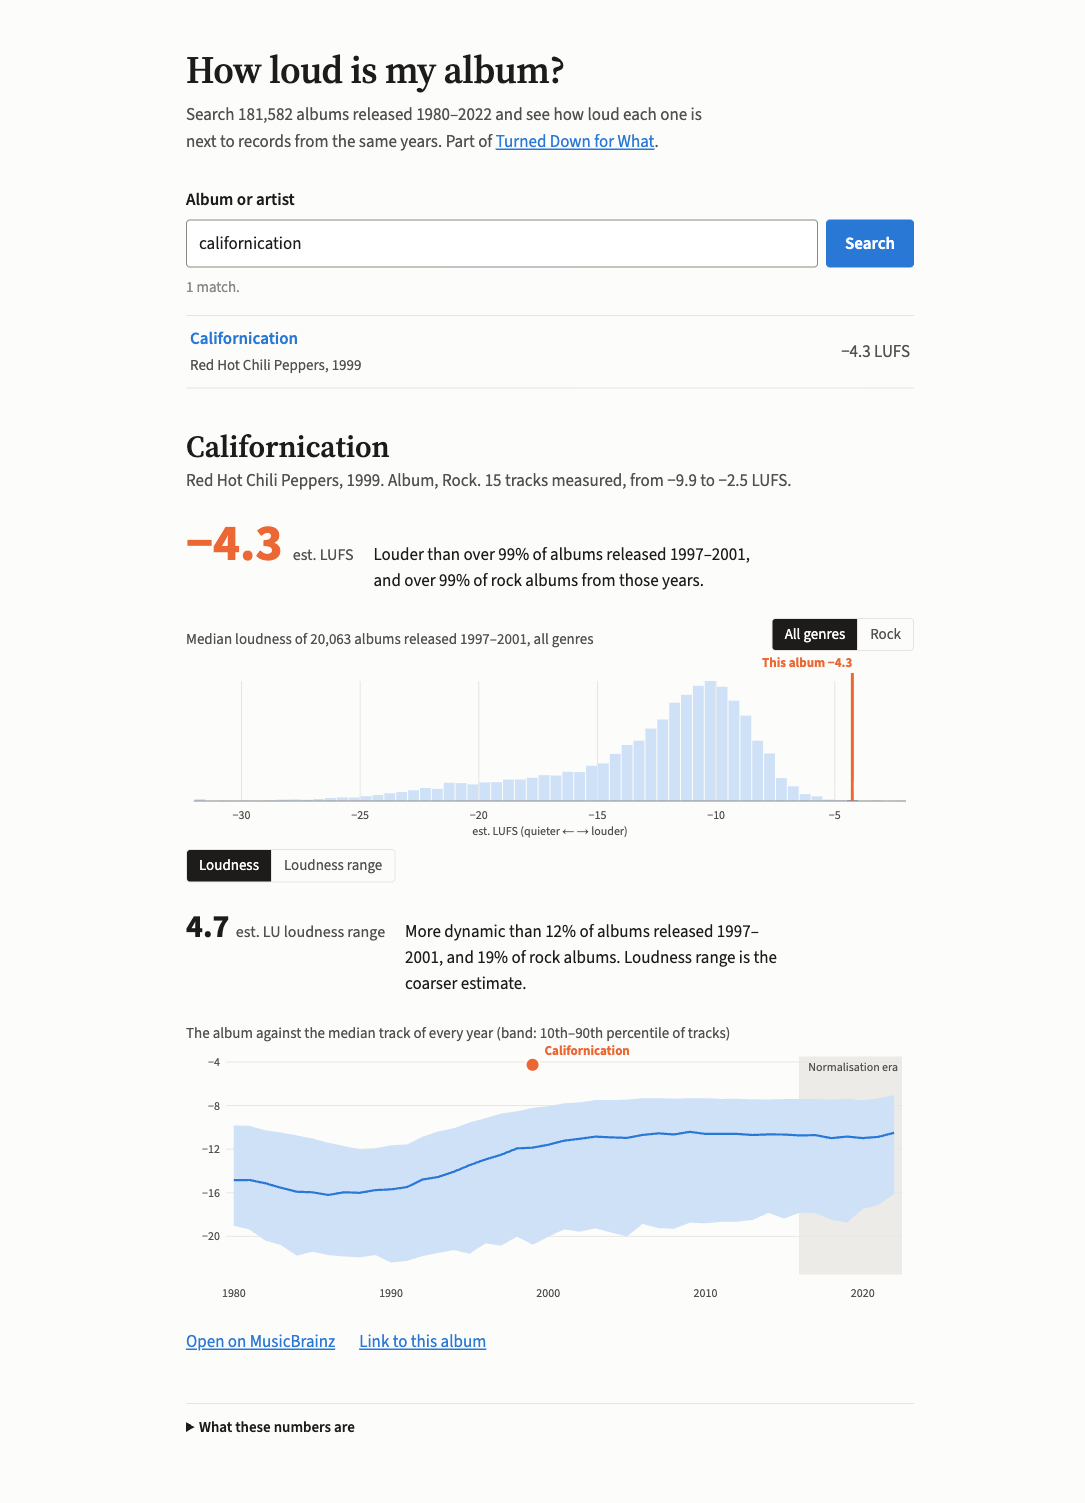
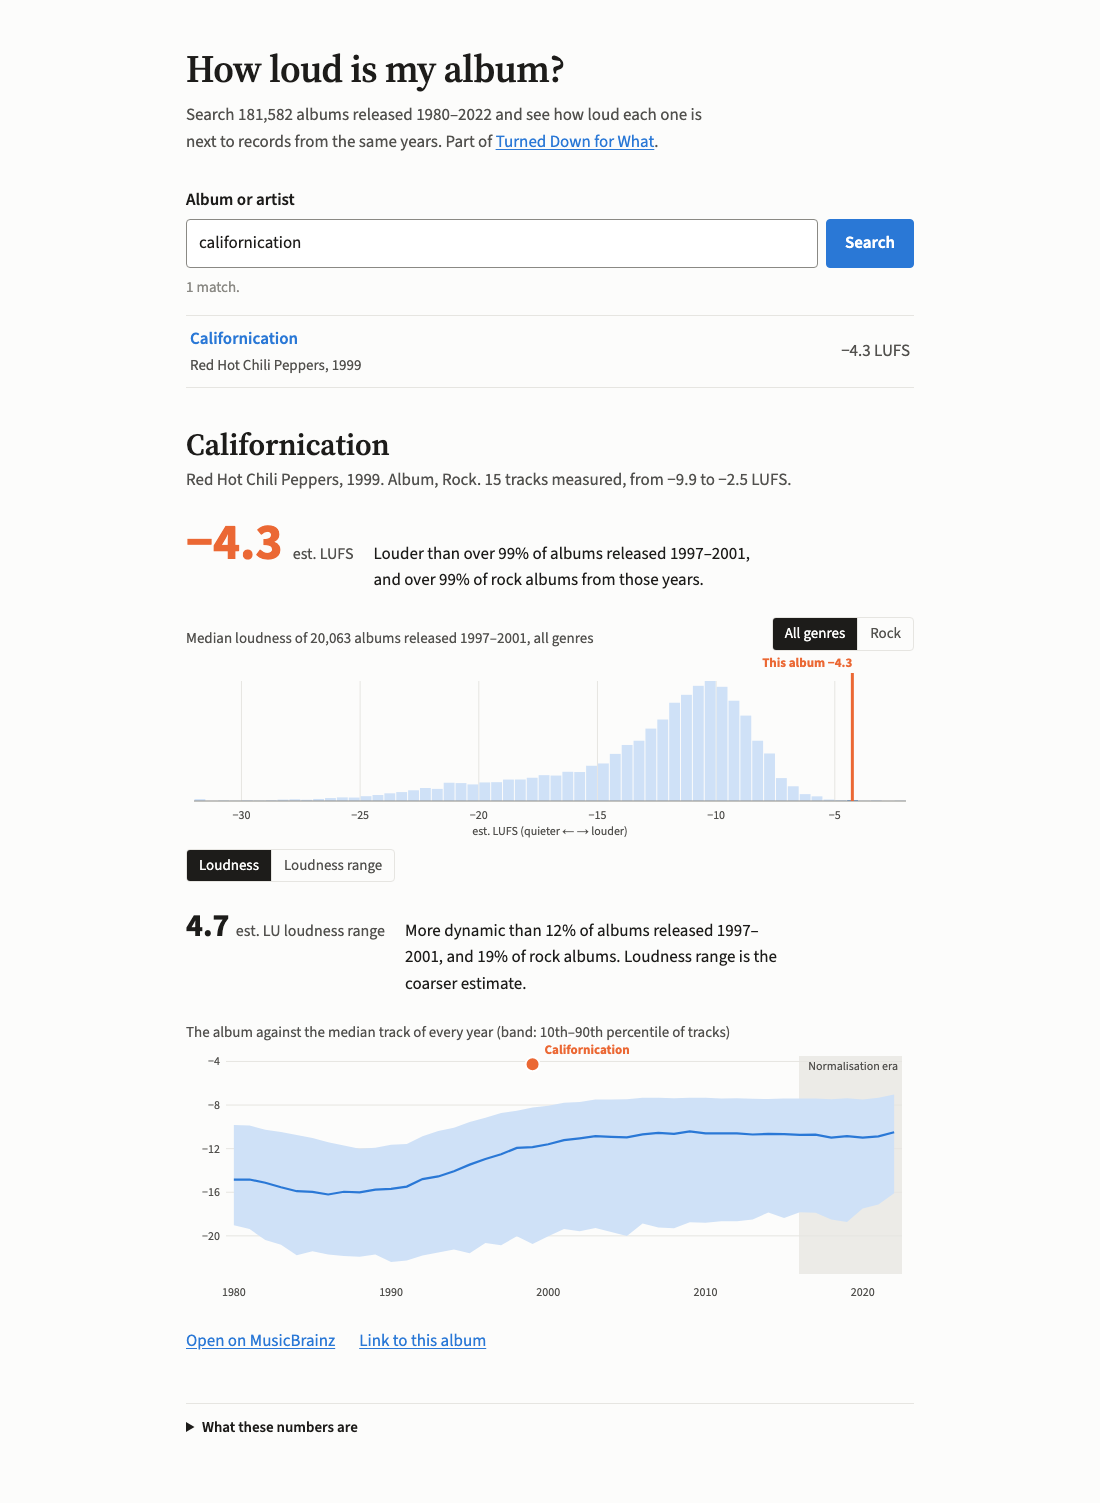
P22: list search results in release-year order (up to 200 matches)

diff --git a/app/app.js b/app/app.js
@@ -5,6 +5,7 @@ const $ = (id) => document.getElementById(id);
 const state = { conn: null, dist: null, album: null, scope: "all", metric: "lufs" };
 const SVGNS = "http://www.w3.org/2000/svg";
 const Y0 = 1980, Y1 = 2022;
+const MAX_RESULTS = 200;
 
 const minus = (s) => String(s).replace(/-/g, "−");
 const fmt = (v, d = 1) => minus(Number(v).toFixed(d));
@@ -73,11 +74,13 @@ async function search(q) {
   if (!words.length) return [];
   const where = words.map(() => "(title_key || ' ' || artist_key) like ?").join(" and ");
   const full = norm(q);
-  return rows(
-    `select ${COLS} from albums where ${where}
-     order by (title_key = ?) desc, (artist_key = ?) desc, n_sub desc limit 25`,
+  // keep the MAX_RESULTS most relevant matches, then list them in release-year order
+  const list = await rows(
+    `select ${COLS}, count(*) over () as n_total from albums where ${where}
+     order by (title_key = ?) desc, (artist_key = ?) desc, n_sub desc limit ${MAX_RESULTS}`,
     [...words.map((w) => `%${w}%`), full, full],
   );
+  return list.sort((a, b) => a.year - b.year || a.title.localeCompare(b.title));
 }
 
 // ---------- rendering ----------
@@ -97,9 +100,10 @@ function renderResults(list, q) {
     $("status").textContent = `No albums match "${q}". Try fewer words, or the artist's name on its own.`;
     return;
   }
-  $("status").textContent = list.length === 25
-    ? "Showing the 25 most-submitted matches. Add a word to narrow it down."
-    : `${list.length} ${list.length === 1 ? "match" : "matches"}.`;
+  const total = list[0].n_total;
+  $("status").textContent = total > list.length
+    ? `${total.toLocaleString("en-GB")} matches. Showing the ${list.length} most-submitted, oldest first. Add a word to narrow it down.`
+    : list.length === 1 ? "1 match." : `${list.length} matches, oldest first.`;
   for (const a of list) {
     const li = document.createElement("li");
     const b = document.createElement("button");

diff --git a/docs/app/app.js b/docs/app/app.js
@@ -5,6 +5,7 @@ const $ = (id) => document.getElementById(id);
 const state = { conn: null, dist: null, album: null, scope: "all", metric: "lufs" };
 const SVGNS = "http://www.w3.org/2000/svg";
 const Y0 = 1980, Y1 = 2022;
+const MAX_RESULTS = 200;
 
 const minus = (s) => String(s).replace(/-/g, "−");
 const fmt = (v, d = 1) => minus(Number(v).toFixed(d));
@@ -73,11 +74,13 @@ async function search(q) {
   if (!words.length) return [];
   const where = words.map(() => "(title_key || ' ' || artist_key) like ?").join(" and ");
   const full = norm(q);
-  return rows(
-    `select ${COLS} from albums where ${where}
-     order by (title_key = ?) desc, (artist_key = ?) desc, n_sub desc limit 25`,
+  // keep the MAX_RESULTS most relevant matches, then list them in release-year order
+  const list = await rows(
+    `select ${COLS}, count(*) over () as n_total from albums where ${where}
+     order by (title_key = ?) desc, (artist_key = ?) desc, n_sub desc limit ${MAX_RESULTS}`,
     [...words.map((w) => `%${w}%`), full, full],
   );
+  return list.sort((a, b) => a.year - b.year || a.title.localeCompare(b.title));
 }
 
 // ---------- rendering ----------
@@ -97,9 +100,10 @@ function renderResults(list, q) {
     $("status").textContent = `No albums match "${q}". Try fewer words, or the artist's name on its own.`;
     return;
   }
-  $("status").textContent = list.length === 25
-    ? "Showing the 25 most-submitted matches. Add a word to narrow it down."
-    : `${list.length} ${list.length === 1 ? "match" : "matches"}.`;
+  const total = list[0].n_total;
+  $("status").textContent = total > list.length
+    ? `${total.toLocaleString("en-GB")} matches. Showing the ${list.length} most-submitted, oldest first. Add a word to narrow it down.`
+    : list.length === 1 ? "1 match." : `${list.length} matches, oldest first.`;
   for (const a of list) {
     const li = document.createElement("li");
     const b = document.createElement("button");

diff --git a/app/tests/smoke.js b/app/tests/smoke.js
@@ -36,6 +36,14 @@ const check = (ok, msg) => { console.log(`${ok ? "PASS" : "FAIL"}  ${msg}`); if 
   const bj = await page.waitForSelector('#results li .r-sub:has-text("Björk")', { timeout: 10000 }).catch(() => null);
   check(bj !== null, "accent-free query finds Björk");
 
+  // results are listed in release-year order
+  await page.fill("#q", "metallica");
+  await page.press("#q", "Enter");
+  await page.waitForFunction(() => document.getElementById("status").textContent.includes("oldest first"));
+  const years = await page.$$eval("#results .r-sub", (els) => els.map((e) => Number(e.textContent.slice(-4))));
+  check(years.length > 5 && years.every((y, i) => i === 0 || y >= years[i - 1]),
+        `results in release-year order (${years[0]}…${years[years.length - 1]}, n = ${years.length})`);
+
   // empty result gives directions
   await page.fill("#q", "zzqqxx nonexistent album");
   await page.press("#q", "Enter");

diff --git a/notes/p22_app.md b/notes/p22_app.md
@@ -3,7 +3,7 @@
 _2026-11-14. Code: `lw.app.build` (data), `app/` (static page), `lw.app.site` (assembles `docs/`). Rebuild with `make site`._
 
 ## What it does
-- **Search:** an album or artist, accent- and punctuation-insensitive, with every word required. Results are ranked by exact title or artist match, then by number of submissions.
+- **Search:** an album or artist, accent- and punctuation-insensitive, with every word required. Up to 200 matches are kept (exact title or artist match first, then most submitted) and **listed in release-year order, oldest first** (user request 2026-11-14).
 - **Album page:**
   - median est. LUFS and est. LRA;
   - percentile among albums released within ±2 years, overall and within the album's genre;
